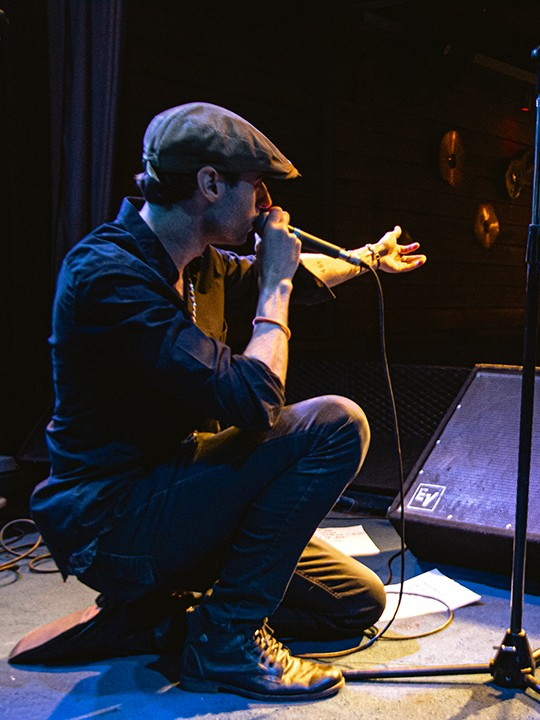
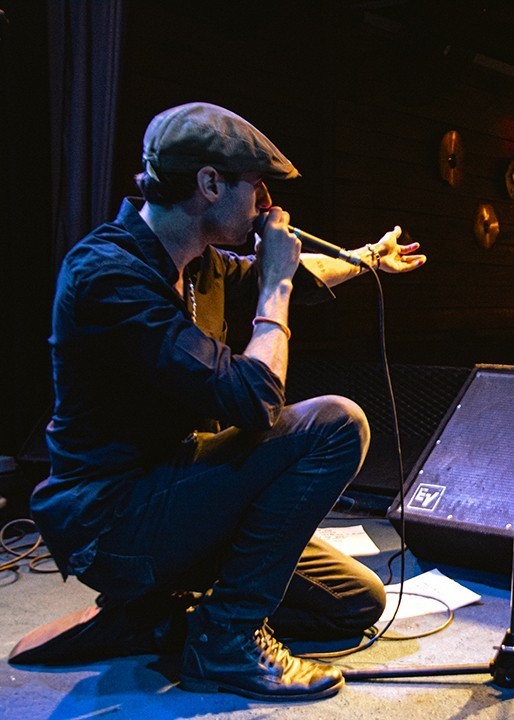
optimize all images and refactor

diff --git a/src/styles/global.css b/src/styles/global.css
@@ -2,7 +2,7 @@
 
 @font-face {
     font-family: 'Bahar regular';
-    src: url('/fonts/Bahar Regular.woff2') format('woff2');
+    src: url('Roy-Web/fonts/Bahar Regular/Bahar Regular.woff2') format('woff2');
     font-weight: 600;
     font-style: normal;
     font-display: swap;
@@ -10,7 +10,7 @@
 
 @font-face {
     font-family: 'Bahar regular';
-    src: url('/fonts/Bahar Regular.woff2') format('woff2');
+    src: url('Roy-Web/fonts/Bahar Regular/Bahar Regular.woff2') format('woff2');
     font-weight: 700;
     font-style: normal;
     font-display: swap;
@@ -18,7 +18,7 @@
 
 @font-face {
     font-family: 'Bahar regular';
-    src: url('/fonts/Bahar Regular.woff2') format('woff2');
+    src: url('Roy-Web/fonts/Bahar Regular/Bahar Regular.woff2') format('woff2');
     font-weight: 900;
     font-style: normal;
     font-display: swap;
